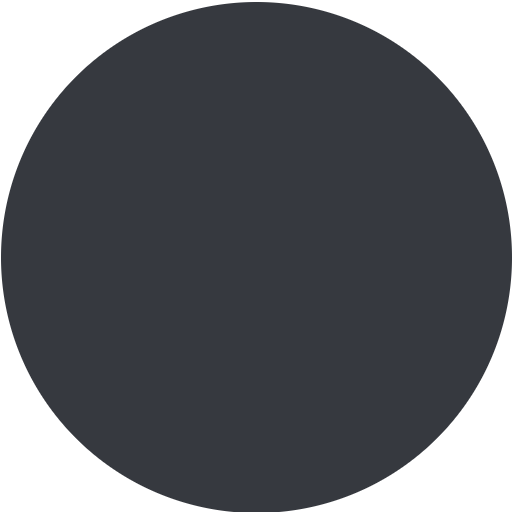
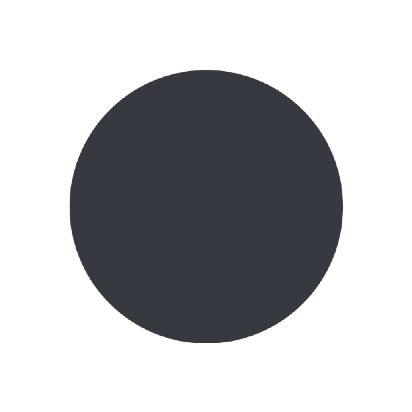
Added some more shit and a fuck ton of images

diff --git a/MiniCord.py b/MiniCord.py
@@ -34,6 +34,7 @@ class MiniCord():
 
         MiniCordUI.resizable(True, True)
         MiniCordUI.geometry('1000x650')
+        MiniCordUI.wm_attributes('-transparentcolor', 'orange')
 
         # Allow minicord to show window borders if debugging is toggled on
         if Debugging != False:
@@ -62,18 +63,30 @@ class MiniCord():
         ServerList = tk.Frame(MiniCordUI, background='#202225', borderwidth=0, height=5000, width=60)
         ServerList.pack(anchor=W, fill='y', expand=True)
         ServerList.place(relx=0,rely=0)
-        #Load the home button
+        #Load the home button and other stuff
         LoadHomeButton = Image.open('images/HomeButton.png')
-        ResizeLoadedHomeButton = LoadHomeButton.resize((80,80), Image.ANTIALIAS)
+        ResizeLoadedHomeButton = LoadHomeButton.resize((45,45), Image.ANTIALIAS)
         RenderHomeButton = ImageTk.PhotoImage(ResizeLoadedHomeButton)
+        #----
+        LoadCircle = Image.open('images/Circle.png')
+        ResizeLoaddedCircle = LoadCircle.resize((80,80), Image.ANTIALIAS)
+        RenderCircle = ImageTk.PhotoImage(ResizeLoaddedCircle)
+        #----
+        LoadCircleHover = Image.open('images/CircleHover.png')
+        ResizeLoaddedCircleHover = LoadCircleHover.resize((80,80), Image.ANTIALIAS)
+        RenderCircleHover = ImageTk.PhotoImage(ResizeLoaddedCircleHover)
         # Create Home Button + template server
-        HomeButton = tk.Label(MiniCordUI, background='#36393f',borderwidth=0, height=200, width=500, image=RenderHomeButton)
+        HomeButtonCircle = tk.Label(MiniCordUI, background='#202225', borderwidth=0, height=60, width=58, image=RenderCircle)
+        HomeButtonCircle.pack(anchor=N, expand=True)
+        HomeButtonCircle.place(relx=0.0005,rely=0.03)
+
+        HomeButton = tk.Label(HomeButtonCircle, background='#36393f',borderwidth=0, height=38, width=38, image=RenderHomeButton)
         HomeButton.pack(anchor=N, expand=True)
-        HomeButton.place(relx=0.5,rely=0.5)
+        HomeButton.place(relx=0.165,rely=0.175)
 
 
         # Patch the title last to prevent it being overlapped (too lazy to use z-index :D)
-        TitleBar = tk.Label(MiniCordUI, background='#202225', height= 1, foreground='grey',text='Minicord', font=('PT Sans Narrow', 10))
+        TitleBar = tk.Label(MiniCordUI, background='#202225', height= 1, foreground='grey',text='Discord Replica (By Preston)', font=('PT Sans Narrow', 10))
         TitleBar.pack(anchor=N, expand=True) 
         TitleBar.place(relx=0.0025,rely=0.00005)
 
@@ -88,6 +101,9 @@ class MiniCord():
         MaximiseButton.bind("<Leave>", lambda e: MaximiseButton.config(background='#202225'))
         MinimiseButton.bind("<Enter>", lambda e: MinimiseButton.config(background='grey'))
         MinimiseButton.bind("<Leave>", lambda e: MinimiseButton.config(background='#202225'))
+        HomeButtonCircle.bind("<Enter>", lambda e: [HomeButtonCircle.config(image=RenderCircleHover), HomeButton.config(background='#5865f2')])
+        HomeButtonCircle.bind("<Leave>", lambda e: [HomeButtonCircle.config(image=RenderCircle), HomeButton.config(background='#36393f')])
+
         
         MiniCordUI.mainloop()
 
@@ -108,7 +124,6 @@ class HandleMovement:
         x = self.winfo_x() + deltax
         y = self.winfo_y() + deltay
         self.geometry(f"+{x}+{y}")
-
 
 
 # Actualy start minicord smh
